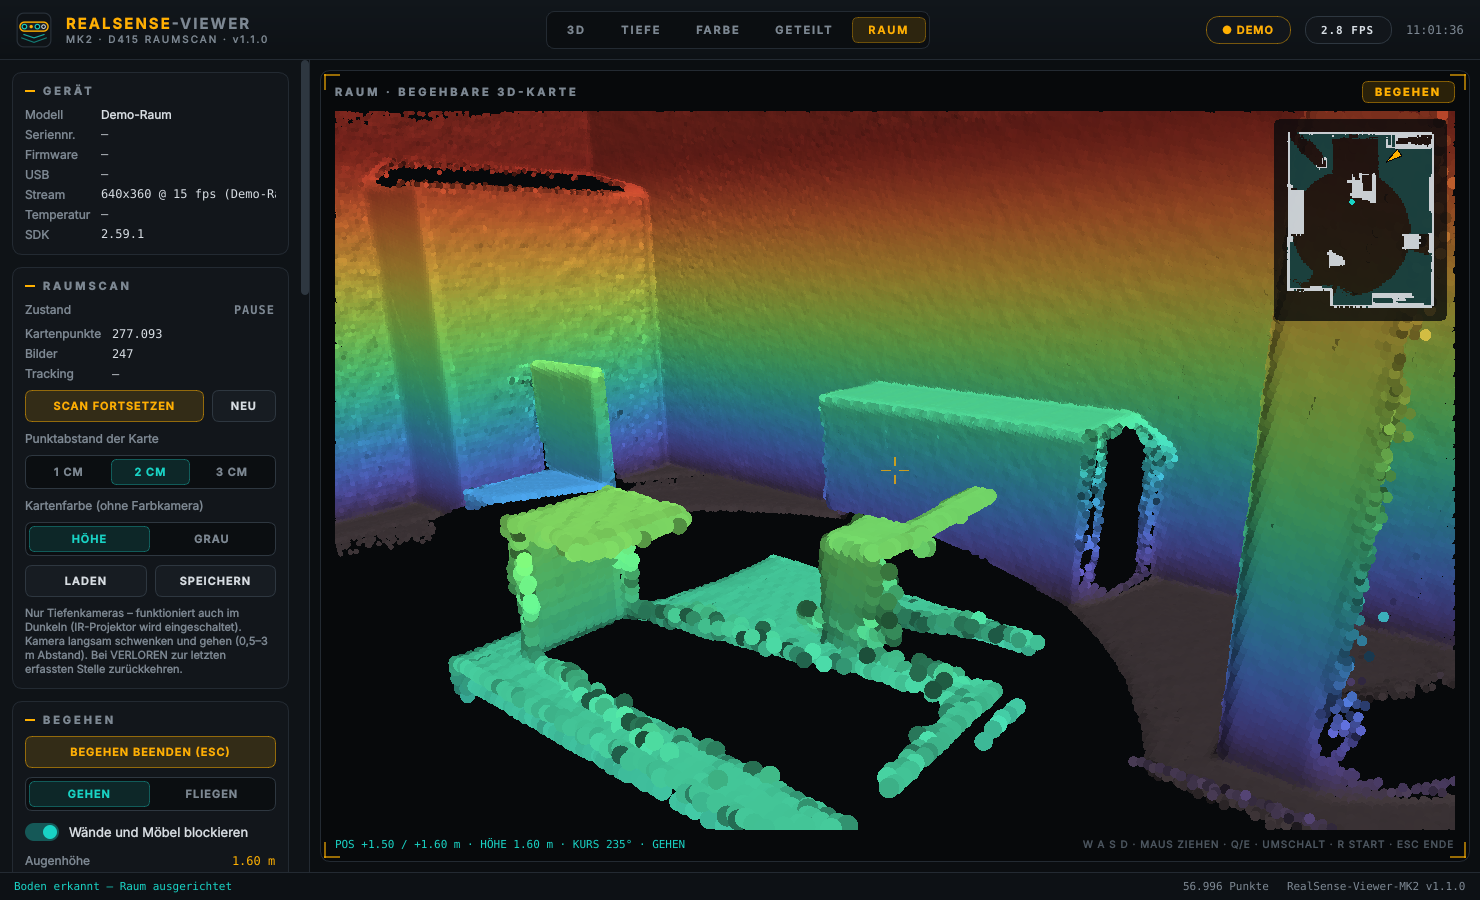
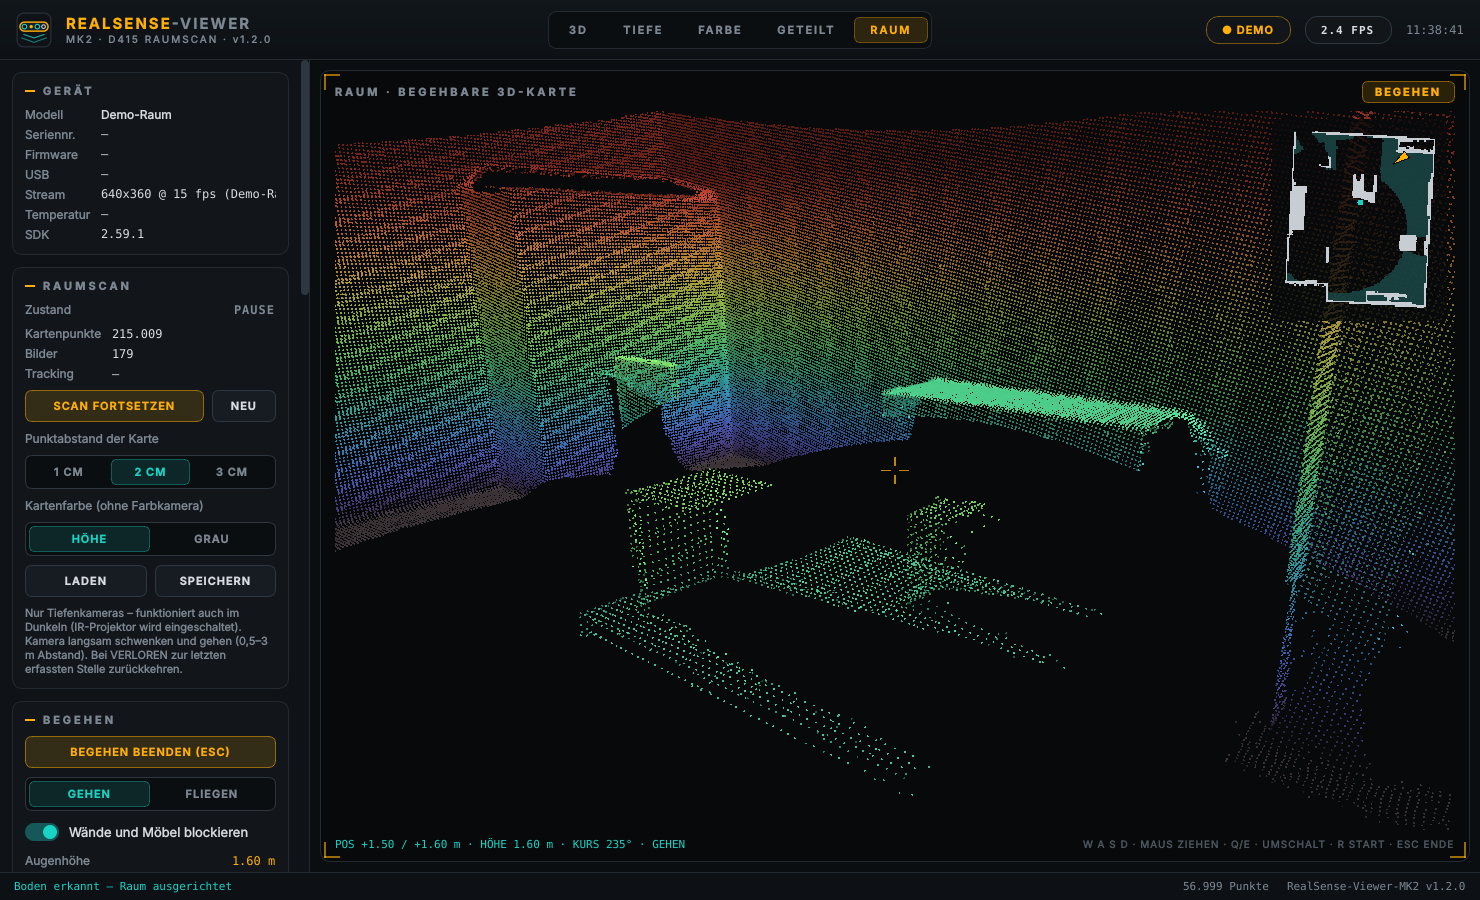
v1.2.0
RealSense-Viewer-MK2 v1.2.0: Wiederfinden nach Tracking-Abbruch, feste Punktgröße beim Begehen

- Wiederfinden neu: Tiefen-Fingerabdruck je Schlüsselbild, Suche der ähnlichsten früheren
  Ansichten unabhängig von der letzten Position, ICP mit zusätzlicher grober Stufe
- Treffer werden gegen die Gesamtkarte geprüft (>= 55 % Überdeckung), auch beim normalen
  Wiederaufnehmen nach Verlust; verhindert Einrasten an falschen, ähnlichen Wänden
- Schlüsselbilder platzsparend (float16, Bild bei Bedarf neu aufbereitet), bis zu 1500
- Begehen: Punkte in fester Bildschirmgröße (pxMode) statt Weltgröße; Regler
  "Punktgröße beim Begehen" 1-8 px, config [raum] punkt_px
- README, CHANGELOG und Screenshot aktualisiert

diff --git a/raumscan.py b/raumscan.py
@@ -26,6 +26,8 @@ log = logging.getLogger("RealSense-Viewer-MK2")
 C_VIEW = np.array([[1, 0, 0, 0], [0, 0, 1, 0], [0, -1, 0, 0], [0, 0, 0, 1]], np.float64)
 
 ARBEITS_BREITE = 320          # Arbeitsauflösung für Tracking und Karte (Pixel)
+WIEDERFINDEN_KANDIDATEN = 5   # so viele ähnliche frühere Ansichten werden je Bild geprüft
+WIEDERFINDEN_STUFEN = ((8, 8, 0.45), (4, 6, 0.20), (2, 5, 0.10), (1, 4, 0.06))
 
 
 # --------------------------------------------------------------------------
@@ -229,6 +231,23 @@ class VoxelKarte:
             self.w = np.insert(self.w, ins, cnt[nf])
         self.version += 1
 
+    _NACHBARN = np.array([[0, 0, 0], [1, 0, 0], [-1, 0, 0], [0, 1, 0], [0, -1, 0], [0, 0, 1], [0, 0, -1]], np.int64)
+
+    def ueberdeckung(self, p, n_max=3000):
+        """Anteil der Punkte p (Welt), die auf bereits kartierten Voxeln (oder direkt daneben) liegen."""
+        if len(self.keys) == 0 or len(p) == 0:
+            return 0.0
+        if len(p) > n_max:
+            p = p[np.random.default_rng(0).choice(len(p), n_max, replace=False)]
+        i = np.floor(p / self.voxel).astype(np.int64) + self.OFF
+        treffer = np.zeros(len(p), bool)
+        for d in self._NACHBARN:
+            j = i + d
+            k = (j[:, 0] << 42) | (j[:, 1] << 21) | j[:, 2]
+            idx = np.minimum(np.searchsorted(self.keys, k), len(self.keys) - 1)
+            treffer |= self.keys[idx] == k
+        return float(treffer.mean())
+
     def punkte(self, min_w=1.5):
         m = self.w >= min_w
         if m.sum() < 1000:
@@ -242,6 +261,50 @@ class VoxelKarte:
 # --------------------------------------------------------------------------
 # Tracker
 # --------------------------------------------------------------------------
+class Schluesselbild:
+    """Platzsparend gespeichertes Schlüsselbild (Tiefe als float16) mit Pose und Fingerabdruck."""
+    __slots__ = ("tiefe", "intr", "pose", "abdruck", "_bild")
+
+    def __init__(self, bild, pose):
+        self.tiefe = bild.V[..., 2].astype(np.float16)
+        self.intr = (bild.fx, bild.fy, bild.ppx, bild.ppy)
+        self.pose = pose.copy()
+        self.abdruck = fingerabdruck(bild.V[..., 2])
+        self._bild = None
+
+    def bild(self, zmin, zmax):
+        if self._bild is None:
+            self._bild = Bild(self.tiefe.astype(np.float32), *self.intr, zmin, zmax)
+        return self._bild
+
+    def entladen(self):
+        self._bild = None
+
+
+def fingerabdruck(tiefe, gx=16, gy=9):
+    """Grobes Tiefenraster (gy × gx Zellen, Mittelwert gültiger Pixel, sonst NaN)."""
+    h, w = tiefe.shape
+    hh, ww = h // gy * gy, w // gx * gx
+    t = tiefe[:hh, :ww].reshape(gy, hh // gy, gx, ww // gx).astype(np.float32)
+    v = t > 0
+    n = v.sum((1, 3))
+    s = np.where(v, t, 0).sum((1, 3))
+    out = np.full((gy, gx), np.nan, np.float32)
+    ok = n > 0.3 * (hh // gy) * (ww // gx)
+    out[ok] = s[ok] / n[ok]
+    return out
+
+
+def abdruck_abstand(a, b):
+    """Mittlere relative Tiefendifferenz der gemeinsam gültigen Zellen (+ Strafe für Unterschiede)."""
+    va, vb = ~np.isnan(a), ~np.isnan(b)
+    beide = va & vb
+    if beide.sum() < 0.3 * a.size:
+        return 9.0
+    d = np.abs(a[beide] - b[beide]) / np.maximum(a[beide], 0.3)
+    return float(np.median(d) + 0.3 * (va ^ vb).mean())
+
+
 class Tracker:
     def __init__(self, voxel=0.02, zmin=0.2, zmax=3.5):
         self.voxel, self.zmin, self.zmax = voxel, zmin, zmax
@@ -253,7 +316,7 @@ class Tracker:
         self.key_pose = np.eye(4)   # Pose des Schlüsselbilds (Kamera -> Welt der ersten Kamera)
         self.pose = np.eye(4)       # aktuelle Pose
         self.prev_pose = np.eye(4)
-        self.keys_alt = []          # frühere Schlüsselbilder zum Wiederfinden
+        self.keys_alt = []          # frühere Schlüsselbilder (Schluesselbild) zum Wiederfinden
         self.bahn = []              # Kamerapositionen
         self.verloren = 0
         self.bilder = 0
@@ -300,14 +363,15 @@ class Tracker:
             step = np.linalg.inv(self.pose) @ (self.key_pose @ T)
             if np.linalg.norm(step[:3, 3]) > 0.35 or rot_angle(step[:3, :3]) > 30:
                 good = False
+        if good and self.verloren:
+            # nach einem Verlust erst übernehmen, wenn die Pose zur bisherigen Karte passt
+            good = self._passt_zur_karte(cur, self.key_pose @ T)
         if not good:
-            # Wiederfinden über frühere Schlüsselbilder in der Nähe
-            for kb, kp in sorted(self.keys_alt, key=lambda e: np.linalg.norm(e[1][:3, 3] - self.pose[:3, 3]))[:3]:
-                T2, f2, r2, e2 = icp(cur, kb, np.linalg.inv(kp) @ self.pose)
-                if f2 > 0.35 and r2 < 0.02 and e2 > 2e-4:
-                    self.key, self.key_pose = kb, kp
-                    T, frac, rmse, good = T2, f2, r2, True
-                    break
+            gefunden = self._wiederfinden(cur)
+            if gefunden is not None:
+                kb, T, frac = gefunden
+                self.key, self.key_pose = kb.bild(self.zmin, self.zmax), kb.pose.copy()
+                good = True
         self.guete = frac if good else 0.0
         if not good:
             self.verloren += 1
@@ -326,11 +390,46 @@ class Tracker:
         # neues Schlüsselbild?
         rel = np.linalg.inv(self.key_pose) @ self.pose
         if np.linalg.norm(rel[:3, 3]) > 0.12 or rot_angle(rel[:3, :3]) > 10 or frac < 0.55:
-            self.keys_alt.append((self.key, self.key_pose))
-            if len(self.keys_alt) > 400:
-                self.keys_alt = self.keys_alt[-400:]
+            self.keys_alt.append(Schluesselbild(cur, self.pose))
+            if len(self.keys_alt) > 1500:                 # ca. 170 MB
+                self.keys_alt = self.keys_alt[-1500:]
             self.key, self.key_pose = cur, self.pose.copy()
         return "ok"
+
+    # ---------------------------------------------------------------- Wiederfinden
+    def _passt_zur_karte(self, cur, pose, schwelle=0.55):
+        P = cur.V[cur.M]
+        Pw = P @ pose[:3, :3].T.astype(np.float32) + pose[:3, 3].astype(np.float32)
+        return self.karte.ueberdeckung(Pw) >= schwelle
+
+    def _wiederfinden(self, cur):
+        """Sucht nach einem Tracking-Verlust die ähnlichsten früheren Ansichten (unabhängig von der
+        zuletzt bekannten Position), legt das Bild per ICP an und prüft das Ergebnis gegen die Karte."""
+        if not self.keys_alt:
+            return None
+        abdruck = fingerabdruck(cur.V[..., 2])
+        abst = np.array([abdruck_abstand(abdruck, k.abdruck) for k in self.keys_alt])
+        reihenfolge = np.argsort(abst)[:WIEDERFINDEN_KANDIDATEN]
+        bester = None
+        for i in reihenfolge:
+            if abst[i] > 0.35:
+                break
+            kb = self.keys_alt[i]
+            ref = kb.bild(self.zmin, self.zmax)
+            T, frac, rmse, ev = icp(cur, ref, np.eye(4), stufen=WIEDERFINDEN_STUFEN)
+            if not (frac > 0.40 and rmse < 0.02 and ev > 2e-4):
+                continue
+            pose = kb.pose @ T
+            P = cur.V[cur.M]
+            ueb = self.karte.ueberdeckung(P @ pose[:3, :3].T.astype(np.float32) + pose[:3, 3].astype(np.float32))
+            if ueb >= 0.55 and (bester is None or ueb * frac > bester[0]):
+                bester = (ueb * frac, kb, T, frac)
+                if ueb > 0.8:
+                    break
+        # Zwischenspeicher klein halten
+        for k in self.keys_alt[:-3]:
+            k.entladen()
+        return None if bester is None else bester[1:]
 
     def _eintragen(self, cur, pose):
         m = cur.M

diff --git a/app.py b/app.py
@@ -20,7 +20,7 @@ import time
 from pathlib import Path
 
 APP_NAME = "RealSense-Viewer-MK2"
-APP_VERSION = "1.1.0"
+APP_VERSION = "1.2.0"
 
 import numpy as np  # noqa: E402
 
@@ -725,10 +725,10 @@ class MainWindow(QMainWindow):
         p.add(row)
         self.rng_tempo = p.add(QSlider(Qt.Horizontal))
         self.rng_tempo.setRange(3, 30)         # dm/s
-        row, self.lbl_fuell = field_header("Flächenfüllung")
+        row, self.lbl_fuell = field_header("Punktgröße beim Begehen")
         p.add(row)
         self.rng_fuell = p.add(QSlider(Qt.Horizontal))
-        self.rng_fuell.setRange(10, 40)        # × Voxel / 10
+        self.rng_fuell.setRange(2, 16)         # halbe Pixel
         self.btn_start = p.add(make_button("ZUM STARTPUNKT"))
         hint = make_label("W A S D / Pfeile: gehen · Maus ziehen: umsehen · Q/E: runter/hoch · "
                           "Umschalt: schnell · R: Start · F: Gehen/Fliegen · Esc: beenden", "hint")
@@ -1086,7 +1086,7 @@ class MainWindow(QMainWindow):
                 return default
         self.rng_auge.setValue(int(round(num("augenhoehe_m", 1.6) * 100)))
         self.rng_tempo.setValue(int(round(num("tempo_m_s", 1.4) * 10)))
-        self.rng_fuell.setValue(int(round(num("fuellung", 1.8) * 10)))
+        self.rng_fuell.setValue(int(round(num("punkt_px", 2.0) * 2)))
         self._on_walk_opts()
         self.seg_farbe.set_value(self.raum_farbe)
         self.chk_maus.setChecked(truthy(cfg_get("3dmaus", "aktiv")))
@@ -1493,8 +1493,8 @@ class MainWindow(QMainWindow):
         col = np.ones((len(pos), 4), np.float32)
         col[:, :3] = self._raum_farben(pos)
         if walk:
-            size = self.raum_voxel * self.rng_fuell.value() / 10
-            self.raum_cloud.setData(pos=pos, color=col, size=size, pxMode=False)
+            # feste Bildschirmgröße wie beim Scan – nahe Punkte werden nicht aufgebläht
+            self.raum_cloud.setData(pos=pos, color=col, size=self.rng_fuell.value() / 2, pxMode=True)
         else:
             self.raum_cloud.setData(pos=pos, color=col, size=max(1.5, self.point_size), pxMode=True)
         bahn = self.raum_bahn if self.raum_quelle == "scan" else np.zeros((0, 3), np.float32)
@@ -1682,10 +1682,10 @@ class MainWindow(QMainWindow):
     def _on_walk_opts(self):
         auge = self.rng_auge.value() / 100
         tempo = self.rng_tempo.value() / 10
-        fuell = self.rng_fuell.value() / 10
+        fuell = self.rng_fuell.value() / 2
         self.lbl_auge.setText(f"{auge:.2f} m")
         self.lbl_tempo.setText(f"{tempo:.1f} m/s")
-        self.lbl_fuell.setText(f"{fuell:.1f} ×")
+        self.lbl_fuell.setText(f"{fuell:.1f} px")
         self.raum.kollision = self.chk_kollision.isChecked()
         self.raum.tempo = tempo
         if abs(self.raum.augenhoehe - auge) > 1e-6:
@@ -1698,7 +1698,7 @@ class MainWindow(QMainWindow):
         cfg_set("raum", "kollision", self.chk_kollision.isChecked())
         cfg_set("raum", "augenhoehe_m", f"{auge:.2f}")
         cfg_set("raum", "tempo_m_s", f"{tempo:.1f}")
-        cfg_set("raum", "fuellung", f"{fuell:.1f}")
+        cfg_set("raum", "punkt_px", f"{fuell:.1f}")
         self.save_timer.start()
         if self.raum.walk and self.sender() is self.rng_fuell:
             self._raum_anzeigen()

diff --git a/kamera.py b/kamera.py
@@ -69,7 +69,7 @@ DEFAULTS = {
         "kollision": "ja",             # Wände und Möbel blockieren beim Gehen
         "augenhoehe_m": "1.60",
         "tempo_m_s": "1.4",
-        "fuellung": "1.8",             # Größe der Punkte beim Begehen (× Voxelgröße)
+        "punkt_px": "2.0",             # Punktgröße beim Begehen in Pixeln (wie in der Scan-Ansicht)
         "letzter_ordner": "",
         "farbe": "hoehe",              # Kartenfarbe: hoehe | grau (schattiert, ohne Farbkamera)
     },

diff --git a/README.md b/README.md
@@ -1,6 +1,6 @@
 # RealSense-Viewer-MK2
 
-**Version 1.1.0** · reines Desktop-Programm für Windows (kein Browser, kein Webserver)
+**Version 1.2.0** · reines Desktop-Programm für Windows (kein Browser, kein Webserver)
 
 Zeigt das 3D-Bild einer per USB angeschlossenen **Intel RealSense D415** live in einem eigenen Programmfenster an – im Design der Dashboards (dunkel, Amber/Teal). Neu in MK2: **Raumscan**. Man trägt die Kamera durch den Raum, das Programm setzt alle Bilder zu einer zusammenhängenden 3D-Karte zusammen – und durch diese Karte kann man anschließend **wie in einem virtuellen Raum gehen und sich umsehen** – mit Tastatur und Maus oder mit einer **3Dconnexion-3D-Maus**. Der Scan nutzt **nur die Tiefenkameras** (Stereo-IR) und funktioniert daher auch in **völliger Dunkelheit**.
 
@@ -12,7 +12,7 @@ Zeigt das 3D-Bild einer per USB angeschlossenen **Intel RealSense D415** live in
 
 1. Reiter **RAUM** öffnen (Taste 5) und **SCAN STARTEN** drücken.
 2. Kamera **langsam** schwenken und durch den Raum tragen, Abstand zu den Flächen 0,5–3 m. Rechts oben läuft das Live-Tiefenbild mit, die Karte wächst mit; die türkise Linie zeigt den bisherigen Weg der Kamera.
-3. Erscheint **TRACKING VERLOREN**, zur zuletzt erfassten Stelle zurückkehren und dorthin zielen – das Programm findet sich dann selbst wieder.
+3. Erscheint **TRACKING VERLOREN**, die Kamera auf einen **beliebigen bereits gescannten Bereich** richten (z. B. Schreibtisch mit Tastatur und Monitor) – aus ähnlichem Blickwinkel wie beim Scannen. Das Programm sucht unter allen früheren Ansichten die passendste heraus, legt das Bild an und prüft das Ergebnis gegen die gesamte Karte, bevor es weitermacht. So rastet es nicht an einer ähnlich aussehenden, aber falschen Wand ein.
 4. **SCAN PAUSIEREN**, dann **RAUM BEGEHEN** (Taste B). Der Boden wird automatisch erkannt und waagerecht ausgerichtet, man steht in Augenhöhe am Startpunkt des Scans.
 
 ### Nur Tiefe – auch im Dunkeln
@@ -56,7 +56,7 @@ Im Feld **3D-MAUS** der Seitenleiste stehen Gerätestatus und die sechs Achsen l
 
 - **Gehen:** feste Augenhöhe über dem Boden; mit „Wände und Möbel blockieren“ kann man nicht durch gescannte Hindernisse laufen, man gleitet an ihnen entlang.
 - **Fliegen:** frei in alle Richtungen, auch durch Wände und über Möbel.
-- **Augenhöhe, Gehtempo, Flächenfüllung** sind in der Seitenleiste einstellbar. Die Flächenfüllung macht die Punkte beim Begehen größer, damit Wände geschlossen wirken.
+- **Augenhöhe, Gehtempo, Punktgröße beim Begehen** sind in der Seitenleiste einstellbar. Die Punkte haben beim Begehen eine feste Bildschirmgröße (Standard 2 px, wie in der Scan-Ansicht) – auch direkt vor einer Wand werden sie nicht größer.
 - **Minikarte** rechts oben: Grundriss aus dem Scan, Amber-Pfeil = eigene Position und Blickrichtung, türkiser Punkt = Startpunkt.
 
 ### Raum speichern und laden
@@ -71,7 +71,7 @@ Ist keine D415 angeschlossen, liefert das Programm einen **Demo-Raum**: ein möb
 
 ### So funktioniert der Scan
 
-Jedes Tiefenbild wird per ICP (Punkt-zu-Ebene, grob-nach-fein) an ein Schlüsselbild angelegt. Daraus ergibt sich die Bahn der Kamera, mit der Punkte und Flächennormalen in eine gemeinsame Voxel-Karte eingetragen und gemittelt werden. Alles läuft in einem eigenen Thread, ohne zusätzliche Bibliotheken (nur numpy). Die D415 hat keinen Bewegungssensor, und der Scan nutzt bewusst nur die Form des Raums – er braucht daher räumliche Struktur im Bild: Möbel, Kanten, Ecken und Gegenstände helfen. Sieht die Kamera längere Zeit nur eine glatte Wand und den Boden, kann sich die Karte entlang dieser Flächen um einige Zentimeter verschieben; dann etwas mehr Raum ins Bild nehmen.
+Jedes Tiefenbild wird per ICP (Punkt-zu-Ebene, grob-nach-fein) an ein Schlüsselbild angelegt. Daraus ergibt sich die Bahn der Kamera, mit der Punkte und Flächennormalen in eine gemeinsame Voxel-Karte eingetragen und gemittelt werden. Jedes Schlüsselbild wird platzsparend mit einem groben Tiefen-Fingerabdruck gespeichert; nach einem Abbruch werden darüber die ähnlichsten früheren Ansichten gesucht und der Treffer erst übernommen, wenn mindestens 55 % der aktuellen Punkte auf bereits kartierten Flächen liegen. Alles läuft in einem eigenen Thread, ohne zusätzliche Bibliotheken (nur numpy). Die D415 hat keinen Bewegungssensor, und der Scan nutzt bewusst nur die Form des Raums – er braucht daher räumliche Struktur im Bild: Möbel, Kanten, Ecken und Gegenstände helfen. Sieht die Kamera längere Zeit nur eine glatte Wand und den Boden, kann sich die Karte entlang dieser Flächen um einige Zentimeter verschieben; dann etwas mehr Raum ins Bild nehmen.
 
 ## Weitere Funktionen (aus MK1)
 
@@ -139,7 +139,7 @@ Wird beim ersten Start neben der exe angelegt.
 | `[ansicht]` | `farbmodus`, `punktgroesse`, `ansicht` | Darstellung |
 | `[raum]` | `voxel_cm` | Punktabstand der Raumkarte: `1`, `2`, `3` |
 | `[raum]` | `modus`, `kollision` | `gehen` / `fliegen`, Hindernisse `ja` / `nein` |
-| `[raum]` | `augenhoehe_m`, `tempo_m_s`, `fuellung` | Begehen |
+| `[raum]` | `augenhoehe_m`, `tempo_m_s`, `punkt_px` | Begehen (Punktgröße in Pixeln) |
 | `[raum]` | `farbe` | Kartenfarbe `hoehe` oder `grau` |
 | `[3dmaus]` | `aktiv`, `empfindlichkeit` | 3D-Maus beim Begehen |
 | `[3dmaus]` | `umkehr_vor`, `umkehr_seite`, `umkehr_hoch`, `umkehr_neigen`, `umkehr_drehen` | Achsen umkehren (`ja`/`nein`) |
@@ -149,7 +149,7 @@ Wird beim ersten Start neben der exe angelegt.
 
 1. Inhalt dieser Zip in ein GitHub-Repository hochladen (inkl. Ordner `.github`).
 2. Bei jedem Push auf `main`/`master` baut der Workflow **Build Windows EXE** die exe mit PyInstaller, startet sie mit `--selbsttest` (prüft dabei auch den Raumscan am Demo-Raum und die 3D-Maus-Auswertung) und stellt sie als Artefakt bereit (Reiter *Actions* → Lauf → *Artifacts*).
-3. Für ein Release einen Tag setzen, z. B. `git tag v1.1.0 && git push --tags` – dann erscheint die fertige Zip unter *Releases*.
+3. Für ein Release einen Tag setzen, z. B. `git tag v1.2.0 && git push --tags` – dann erscheint die fertige Zip unter *Releases*.
 
 Die Versionsnummer steht in `app.py` (`APP_VERSION`) und wird automatisch in exe-Eigenschaften, Zip-Namen und Fenster übernommen.
 

diff --git a/CHANGELOG.md b/CHANGELOG.md
@@ -1,5 +1,17 @@
 # Änderungen
 
+## MK2 1.2.0
+- **Wiederfinden nach Tracking-Abbruch neu:** Statt nur in der Nähe der letzten (veralteten) Position zu
+  suchen, werden alle früheren Schlüsselbilder über einen Tiefen-Fingerabdruck verglichen; die ähnlichsten
+  werden per ICP angelegt. Damit findet sich das Tracking wieder, sobald ein bereits gescannter Bereich
+  erneut ins Bild kommt – auch aus etwas anderem Blickwinkel
+- Jeder Wiederfinden-Treffer wird gegen die Gesamtkarte geprüft (≥ 55 % der Punkte auf kartierten
+  Flächen); vorher konnte das Tracking an ähnlichen, aber falschen Wänden einrasten
+- Schlüsselbilder platzsparend gespeichert (float16), bis zu 1500 statt 400
+- **Begehen:** Punkte haben eine feste Bildschirmgröße wie in der Scan-Ansicht und werden in der Nähe
+  nicht mehr aufgebläht; Regler „Punktgröße beim Begehen“ (1–8 px) ersetzt die Flächenfüllung;
+  config.ini `[raum] punkt_px`
+
 ## MK2 1.1.0
 - **3Dconnexion-3D-Maus** beim Begehen: Kappe schieben = gehen, drehen = umdrehen, neigen = hoch/runter
   sehen, heben/drücken = hoch/runter (Fliegen), linke Taste = Startpunkt, rechte Taste = Gehen/Fliegen;
